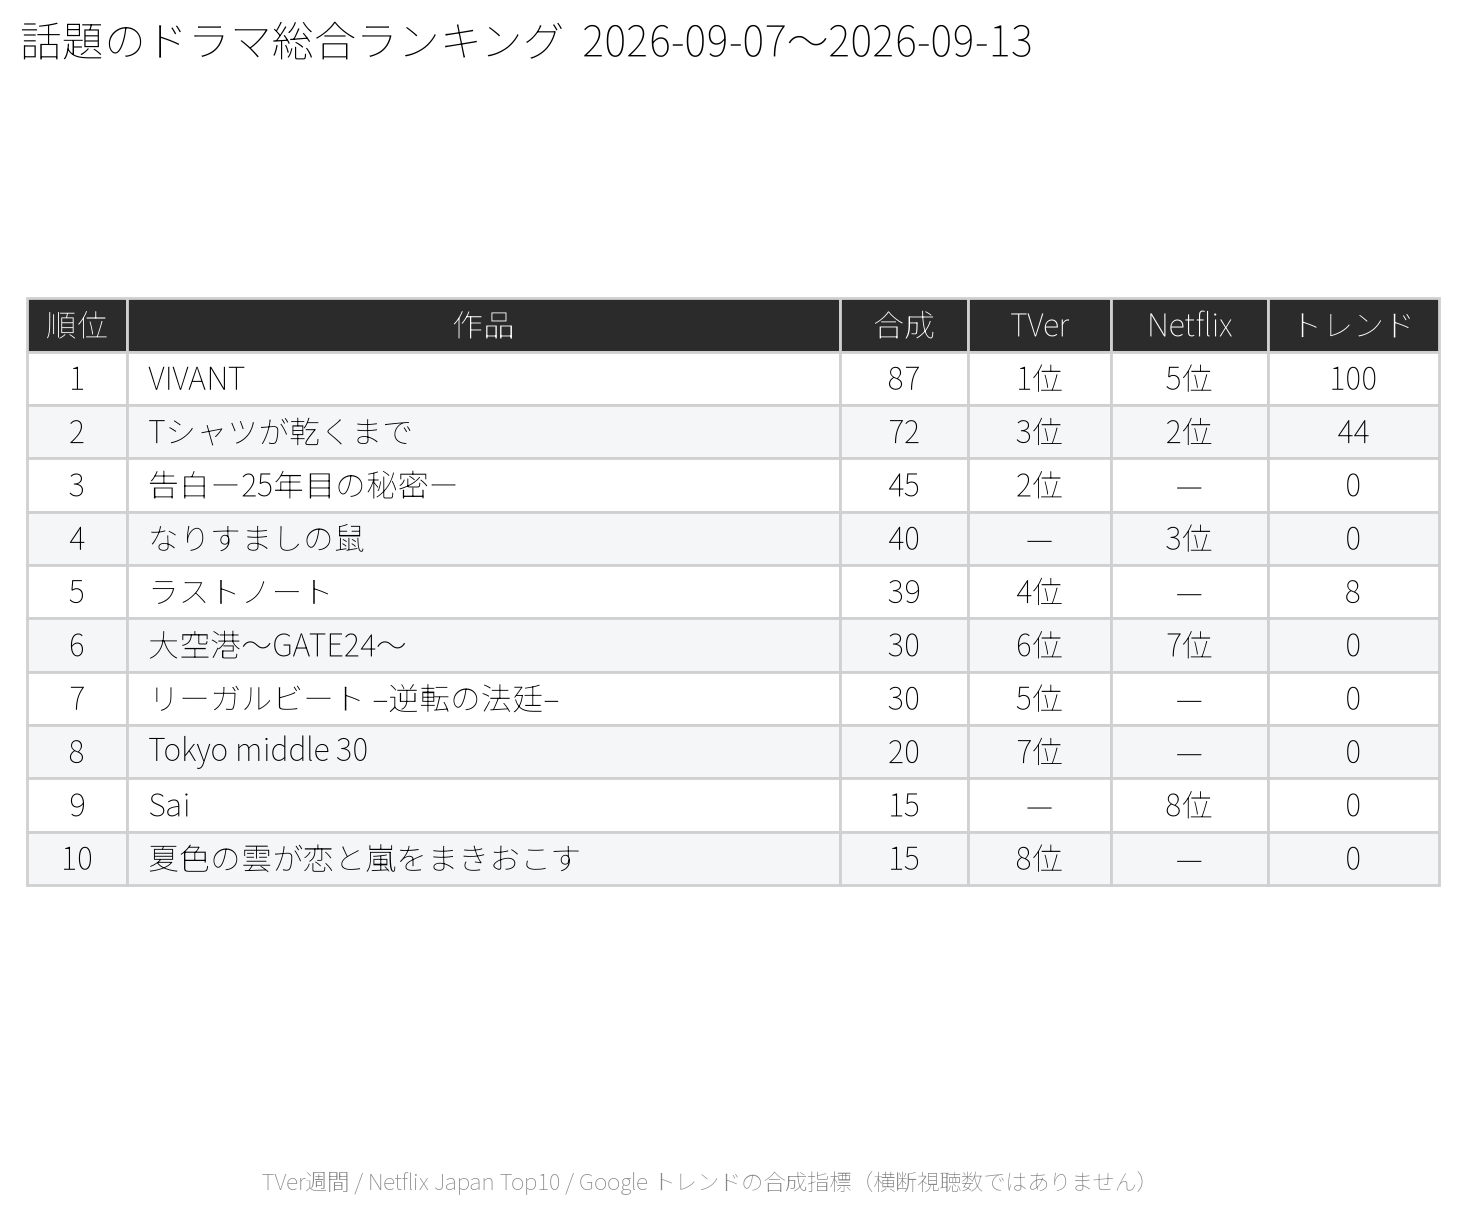
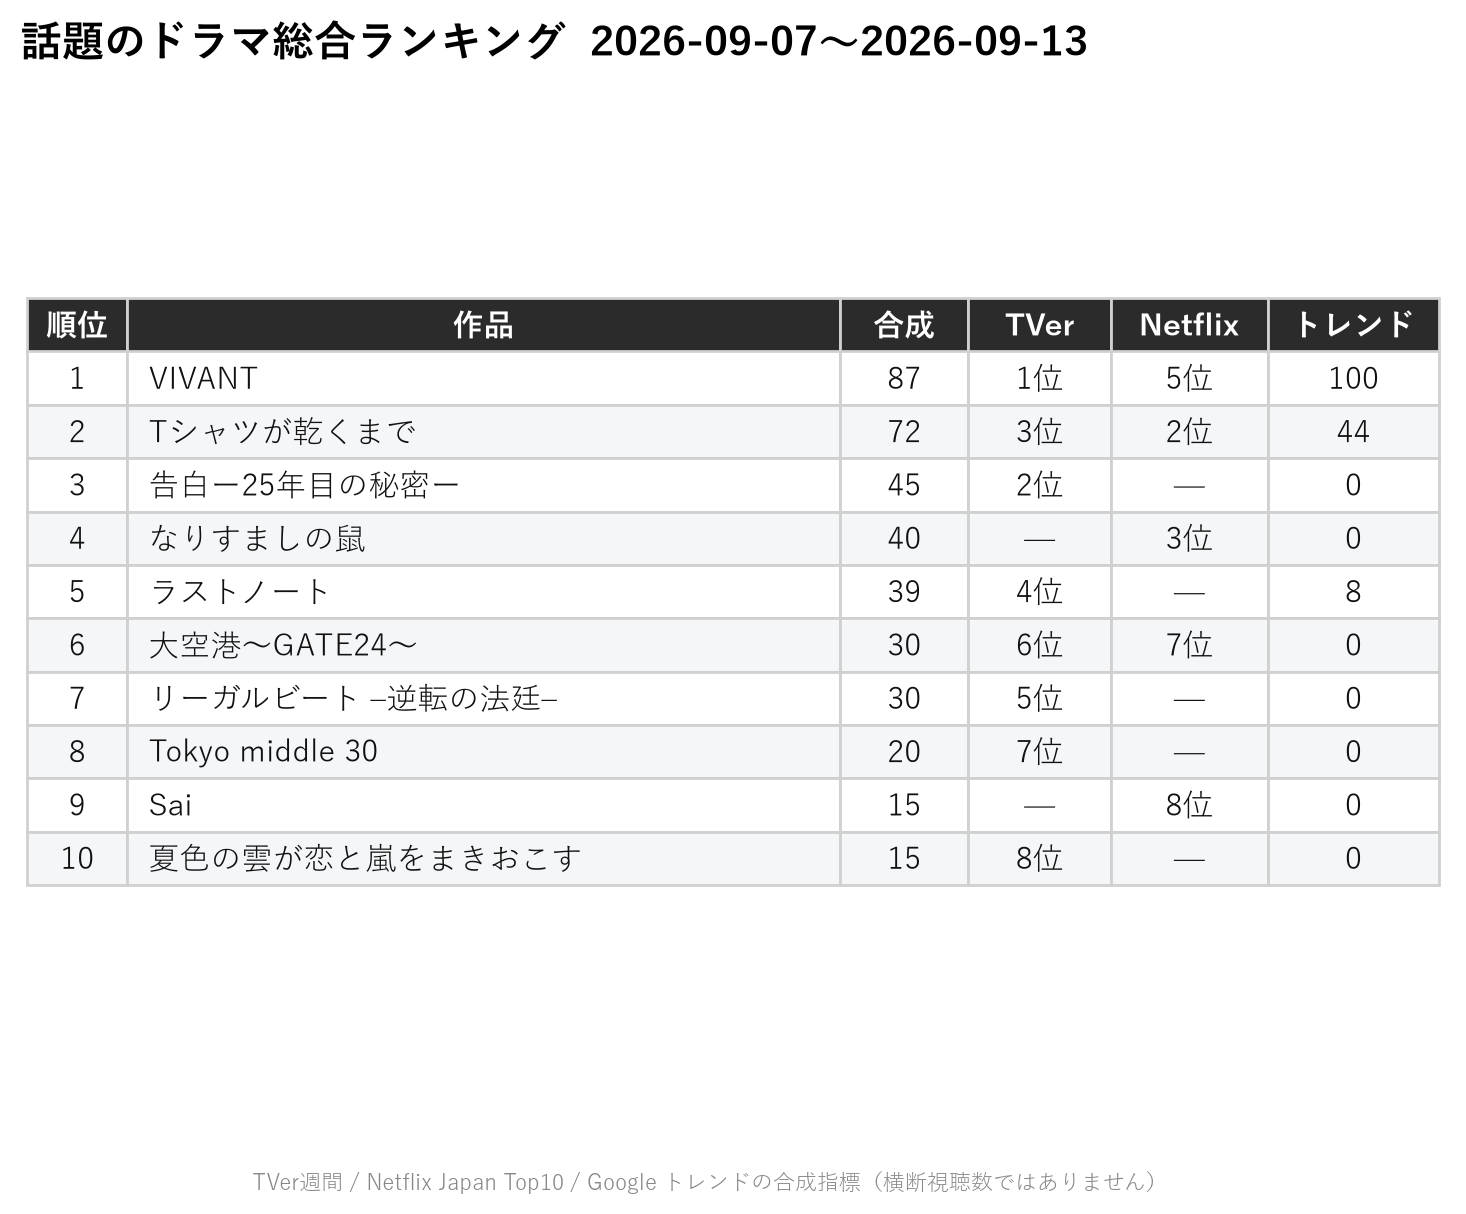
fix(3-drama): ランキング表の文字が薄い原因（フォントのウェイト解決バグ）を修正
_jp_font()が可変フォント「Noto Sans JP」を優先的に選んでいたが、matplotlibが
そのウェイト軸を解決できず常にThin(100)にフォールバックしていたため、表の
文字が薄く見えていた。ウェイト固定の静的フォント（Yu Gothic等）を優先するよう
順序を変更。データセルの文字色も明示的に濃くした。W37の表画像を再生成。

diff --git a/dev/3-drama/pipeline/collect.py b/dev/3-drama/pipeline/collect.py
@@ -711,8 +711,11 @@ def render_draft(wk: dict, items: list[dict]) -> str:
 def _jp_font() -> str | None:
     from matplotlib import font_manager
 
-    for name in ("Noto Sans CJK JP", "Noto Sans JP", "IPAexGothic", "IPAGothic",
-                 "TakaoPGothic", "Yu Gothic", "Meiryo", "MS Gothic", "Hiragino Sans"):
+    # 「Noto Sans JP」は可変フォント(VF)で配布されており、matplotlibがウェイト軸を
+    # 正しく解決できず常にThin(100)にフォールバックしてしまう（2026-09-16判明。
+    # 表の文字が薄く見える原因だった）。ウェイト固定の静的フォントを優先する。
+    for name in ("Yu Gothic", "Meiryo", "MS Gothic", "IPAexGothic", "IPAGothic",
+                 "TakaoPGothic", "Hiragino Sans", "Noto Sans CJK JP", "Noto Sans JP"):
         try:
             if font_manager.findfont(name, fallback_to_default=False):
                 return name
@@ -763,8 +766,10 @@ def render_png(wk: dict, items: list[dict], out_path: Path) -> bool:
                 cell.set_text_props(color="white", fontweight="bold")
             else:
                 if col == 1:
-                    cell.set_text_props(ha="left")
+                    cell.set_text_props(ha="left", color="#111111")
                     cell.PAD = 0.03
+                else:
+                    cell.set_text_props(color="#111111")
                 cell.set_facecolor("#ffffff" if r % 2 else "#f4f6f8")
         fig.text(0.5, 0.02,
                  "TVer週間 / Netflix Japan Top10 / Google トレンドの合成指標（横断視聴数ではありません）",
